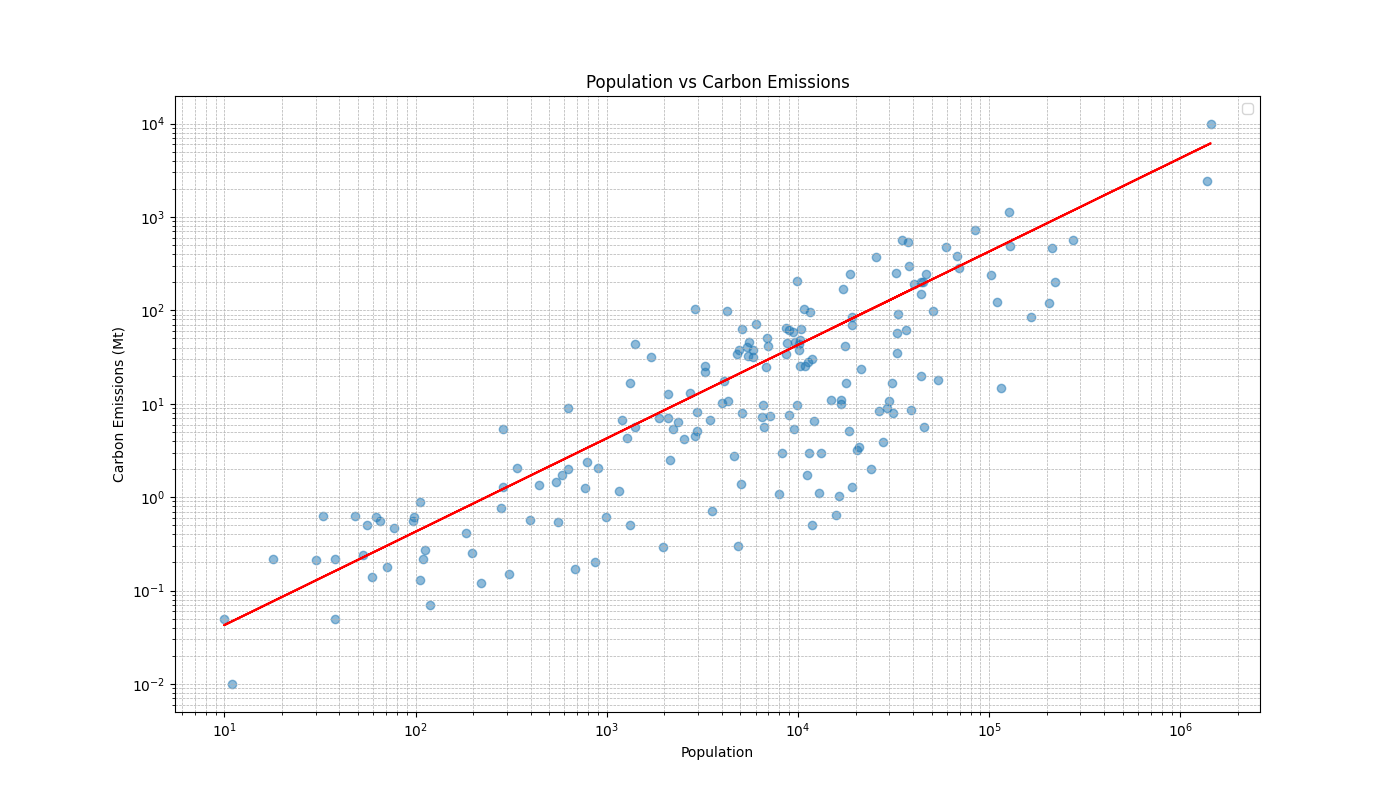
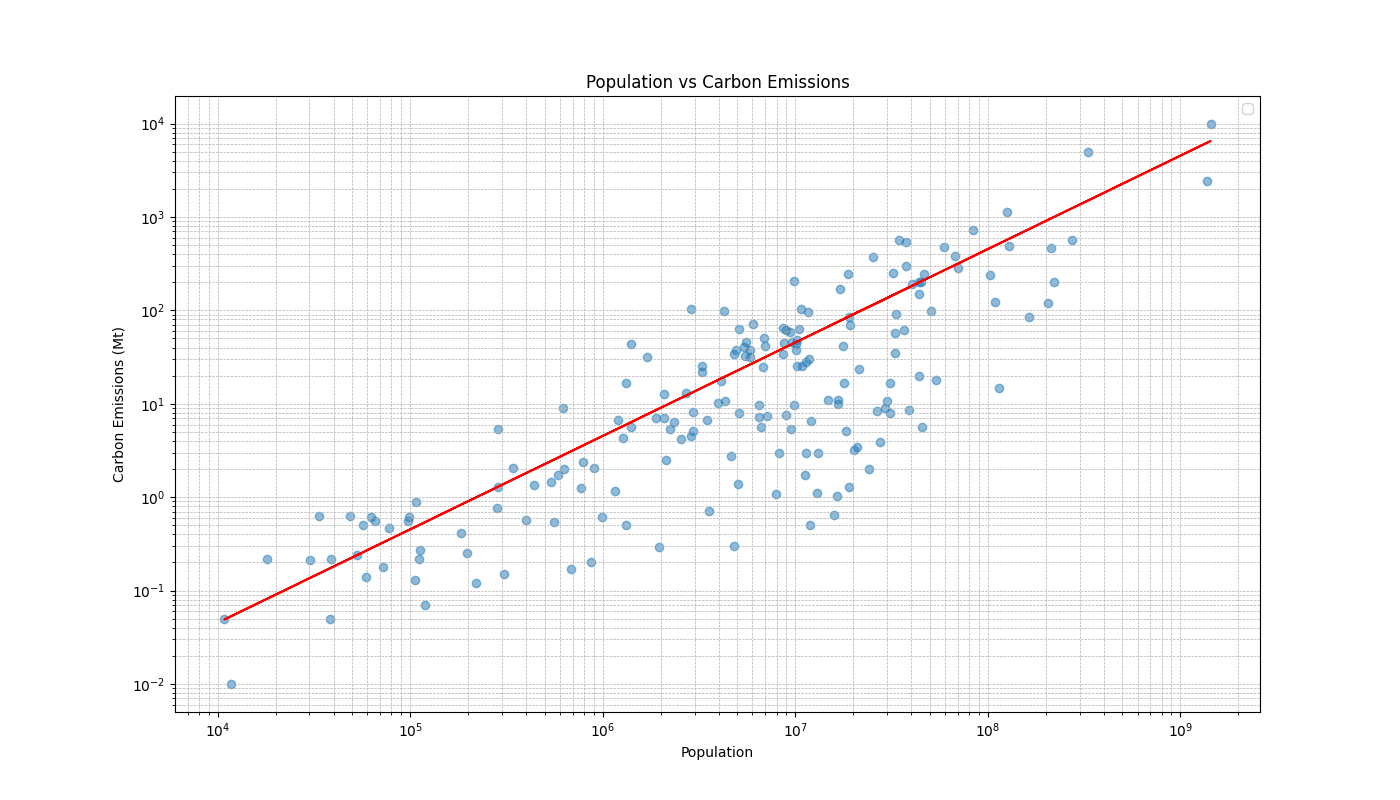
edited urllib_3copy.py

diff --git a/urllib_3copy.py b/urllib_3copy.py
@@ -5,6 +5,7 @@ import csv
 import matplotlib.pyplot as plt
 import numpy as np
 import mplcursors
+import os.path
 resp = urllib3.request("GET", "https://www.cia.gov/the-world-factbook/field/air-pollutants")
 print(resp.status)
 #print(resp.data)
@@ -64,26 +65,25 @@ print("Extracted emissions data:", countryemissions)
 
 print(countryemissions)
 
-wpp_url = 'https://population.un.org/wpp2019/Download/Files/1_Indicators%20(Standard)/CSV_FILES/WPP2019_TotalPopulationBySex.csv'
-
-
 try:
-    resp = urllib3.request("GET", wpp_url)
+    if not os.path.isfile('WPP2019_TotalPopulationBySex.csv'):
+        wpp_url = 'https://population.un.org/wpp2019/Download/Files/1_Indicators%20(Standard)/CSV_FILES/WPP2019_TotalPopulationBySex.csv'
+        resp = urllib3.request("GET", wpp_url)
 
-    if resp.status == 200:
-        print(type(resp.status))
-        print("Successfully fetched the UN WPP CSV file.")
-    else:
-        print(f"Failed to fetch the UN WPP CSV file. Status code: {resp.status}")
-        exit()
+        if resp.status == 200:
+            print(type(resp.status))
+            print("Successfully fetched the UN WPP CSV file.")
+        else:
+            print(f"Failed to fetch the UN WPP CSV file. Status code: {resp.status}")
+            exit()
 
-    csv_filename = 'WPP2019_TotalPopulationBySex.csv'
-    with open(csv_filename, 'wb') as f:
-        f.write(resp.data)
+        csv_filename = 'WPP2019_TotalPopulationBySex.csv'
+        with open(csv_filename, 'wb') as f:
+            f.write(resp.data)
 
-    print(f"CSV file '{csv_filename}' saved successfully.")
+        print(f"CSV file '{csv_filename}' saved successfully.")
 
-    time.sleep(1)
+        time.sleep(1)
 
     populationdict = {} #keys: country_names; values: total_population
 
@@ -96,7 +96,9 @@ try:
                     continue
                 if row['Variant'] == 'Medium' and row['Time'] == '2020':
                     country = row['Location']
-                    total_population = int(float(row['PopTotal']))
+                    if country == 'United States of America':
+                        country = 'United States'
+                    total_population = int(float(row['PopTotal'])*1000) #Because the CSV lists populations in thousands of people
                     populationdict[country] = total_population
 
         print("Extracted population data:", populationdict)
@@ -140,17 +142,66 @@ plt.title('Population vs Carbon Emissions')
 plt.grid(True, which='both', linestyle='--', linewidth=0.5)
 
 cursor = mplcursors.cursor(hover=True)
-cursor.connect("add", lambda sel: sel.annotation.set_text(countries[sel.target.index]))
+cursor.connect("add", lambda sel: sel.annotation.set_text(countries[int(sel.target.index)]))
 
 plt.legend()
 plt.savefig('carbonemissions.png')
 plt.show()
 
+try:
+    csv_filename = 'continents-according-to-our-world-in-data.csv'
+    continent_data = {}
+
+    with open(csv_filename, newline='', encoding='utf-8') as csvfile:
+        reader = csv.DictReader(csvfile)
+        for row in reader:
+            country = row['Entity']
+            continent = row['Continent']
+            if continent not in continent_data:
+                continent_data[continent] = []
+            continent_data[continent].append({
+                'country': country,
+                'population': populationdict.get(country, 0),
+                'emissions': countryemissions.get(country, [0, 0])[0]
+            })
+    print("Extracted continent data from the CSV file.")
+
+    continent = input("Enter the continent you'd like to see the graph for (North America, South America, Oceania, Asia, Europe, Africa): ").strip()
+    if continent not in continent_data:
+        print(f"Continent '{continent}' not found in the data.")
+        exit()
+
+    contdata = continent_data[continent]
+    populations = [entry['population'] for entry in contdata]
+    emissions = [entry['emissions'] for entry in contdata]
+    countries = [entry['country'] for entry in contdata]
+
+    plt.figure(figsize=(14, 8))
+    plt.scatter(populations, emissions, alpha=0.5)
+    if populations and emissions:
+        m, b = np.polyfit(populations, emissions, 1)
+        plt.plot(populations, m * np.array(populations), color='red')
+    plt.xscale('log')
+    plt.yscale('log')
+    plt.xlabel('Population')
+    plt.ylabel('Carbon Emissions (Mt)')
+    plt.title(f'Population vs Carbon Emissions ({continent})')
+    plt.grid(True, which='both', linestyle='--', linewidth=0.5)
+    cursor = mplcursors.cursor(hover=True)
+    cursor.connect("add", lambda sel: sel.annotation.set_text(countries[int(sel.index)]))
+    plt.legend()
+    plt.savefig(f'carbonemissions_{continent}.png')
+    plt.show()
+
+except Exception as e:
+    print(f"Error processing CSV file: {e}")
+    exit()
+
 emissions_per_capita_sorted = sorted(emissionspercapita.items(), key=lambda x: x[1][3], reverse=True)
 top_10_worst = emissions_per_capita_sorted[:10]
 top_10_best = emissions_per_capita_sorted[-10:]
 
-mean_per_capita = np.mean([data[3] for data in emissionspercapita.values()])
+#mean_per_capita = np.mean([data[3] for data in emissionspercapita.values()])
 median_per_capita = np.median([data[3] for data in emissionspercapita.values()])
 
 print("\nTop 10 countries with the worst emissions per capita:")
@@ -161,5 +212,5 @@ print("\nTop 10 countries with the best emissions per capita:")
 for country, data in top_10_best:
     print(f"{country}: {data[3]:.2f} Mt per million people")
 
-print(f"\nMean emissions per capita: {mean_per_capita:.2f} Mt per million people")
-print(f"Median emissions per capita: {median_per_capita:.2f} Mt per million people")
+#print(f"\nMean emissions per capita: {mean_per_capita:.2f} Mt per million people")
+print(f"\nMedian emissions per capita: {median_per_capita:.2f} Mt per million people")
